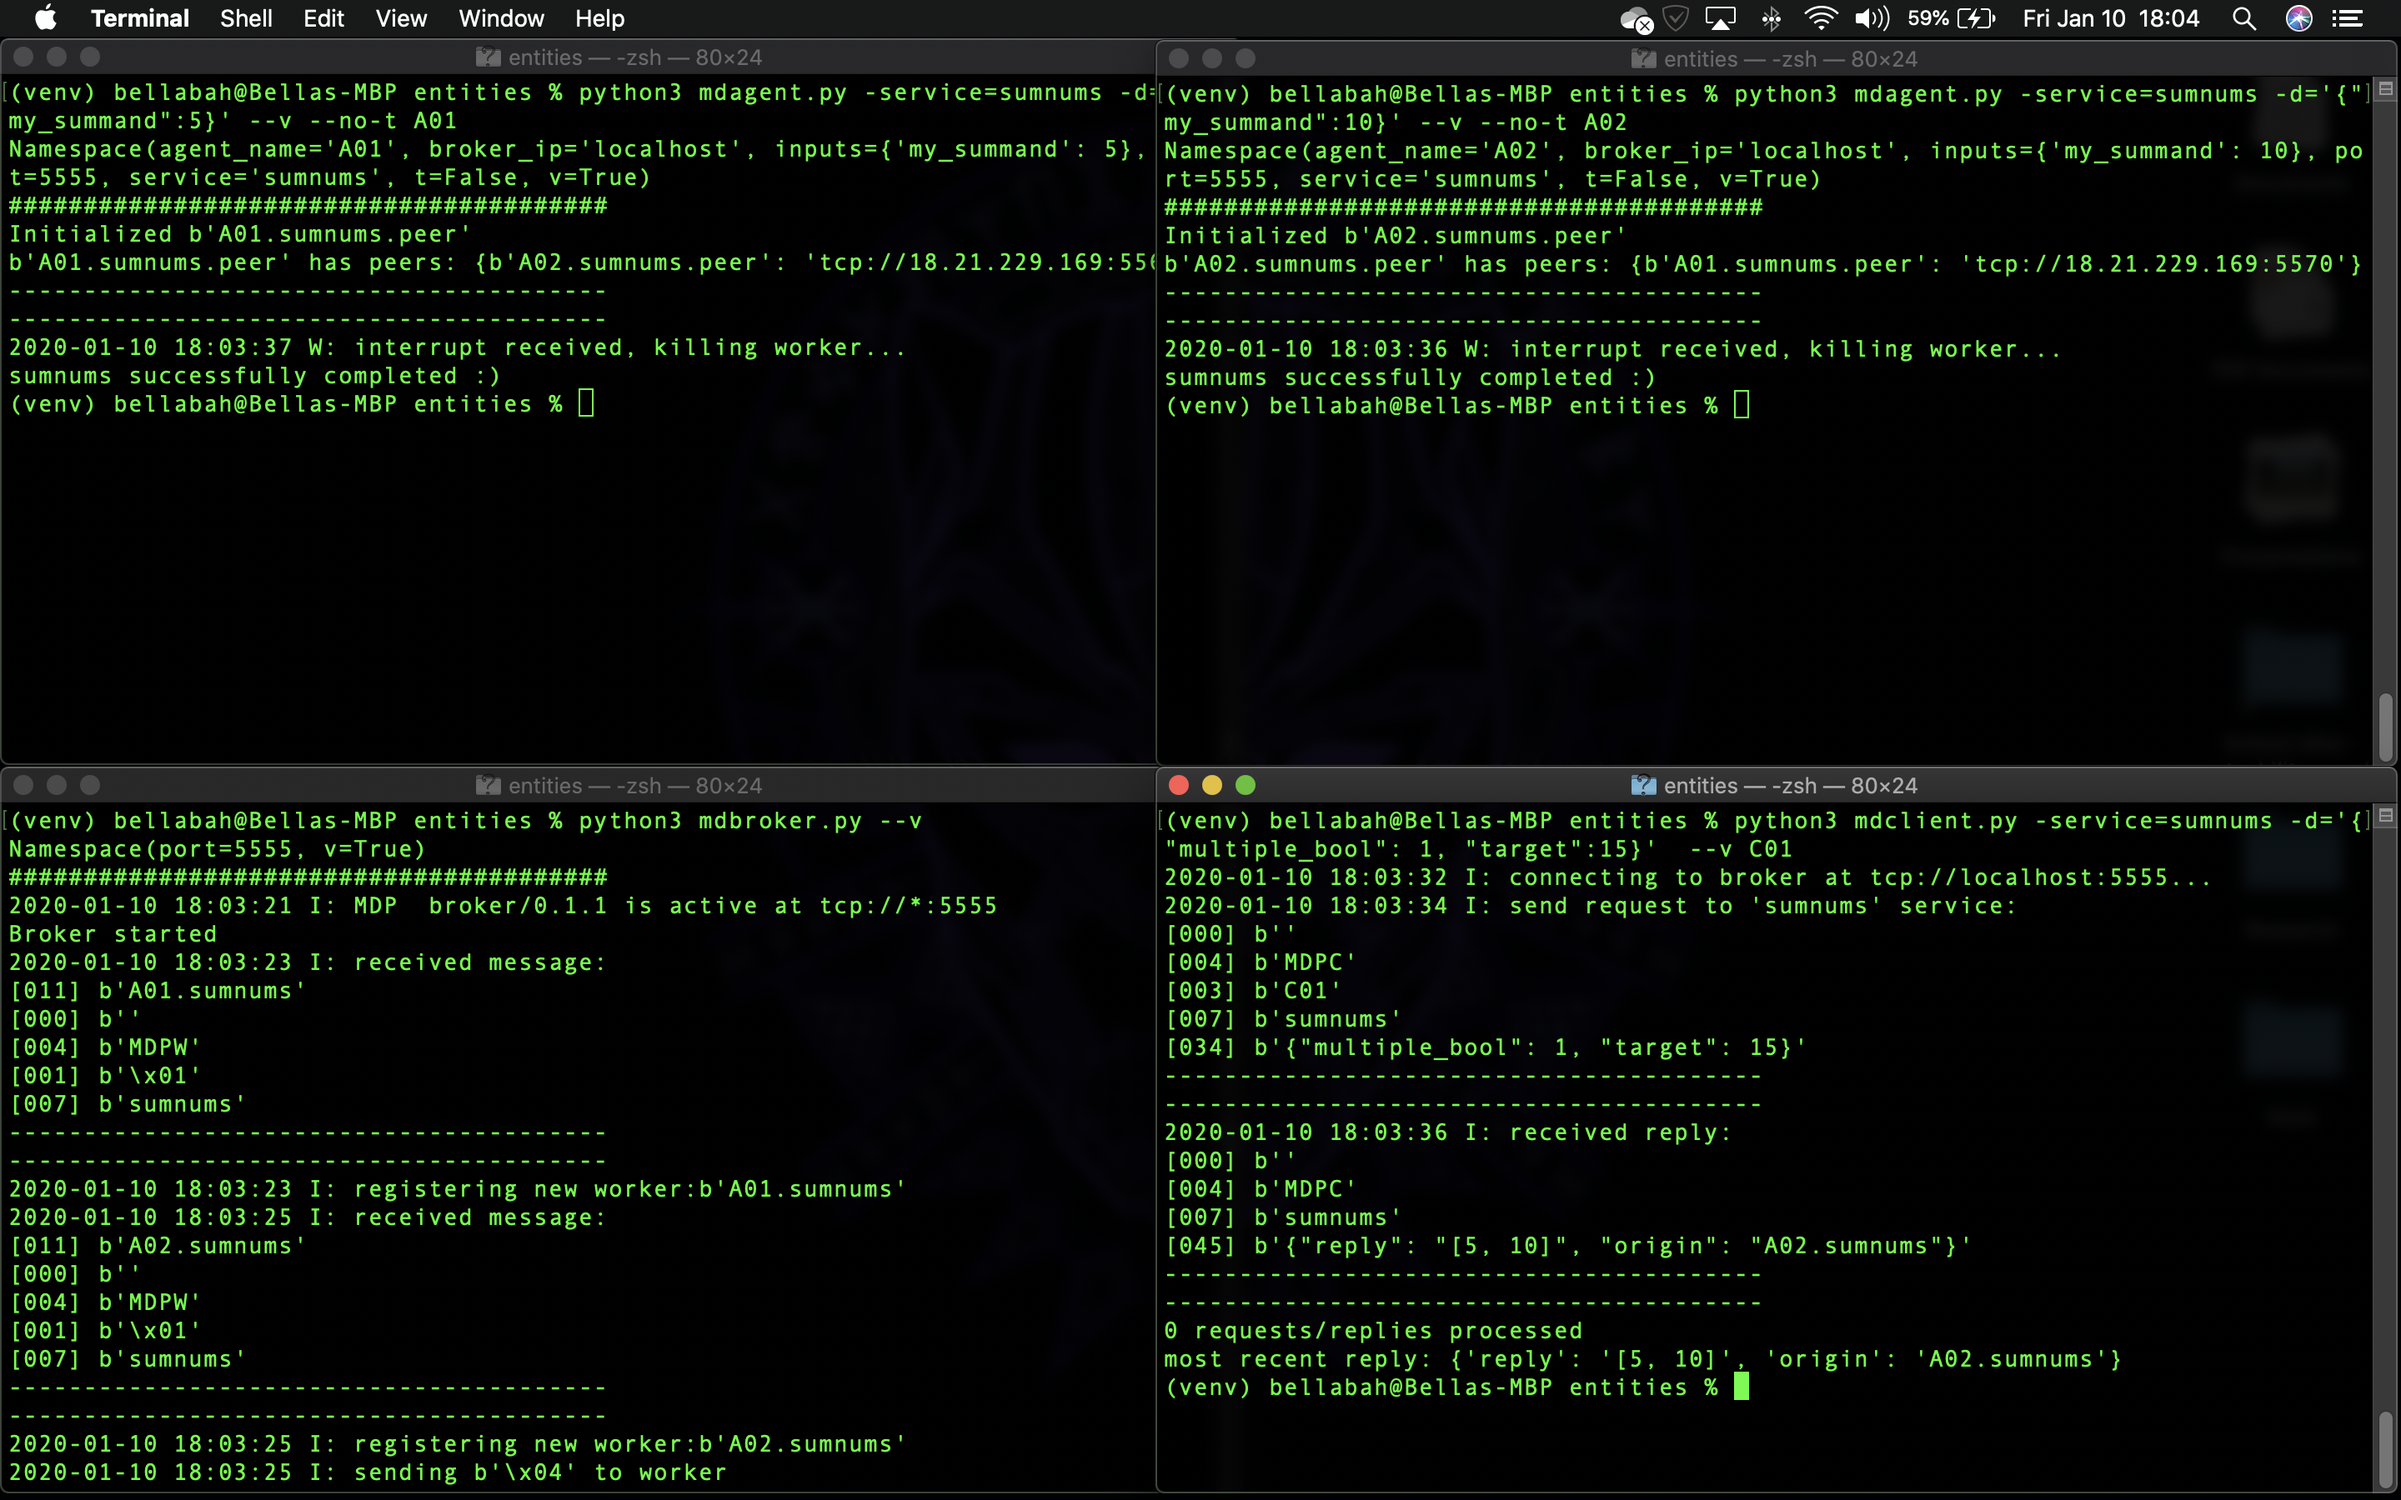
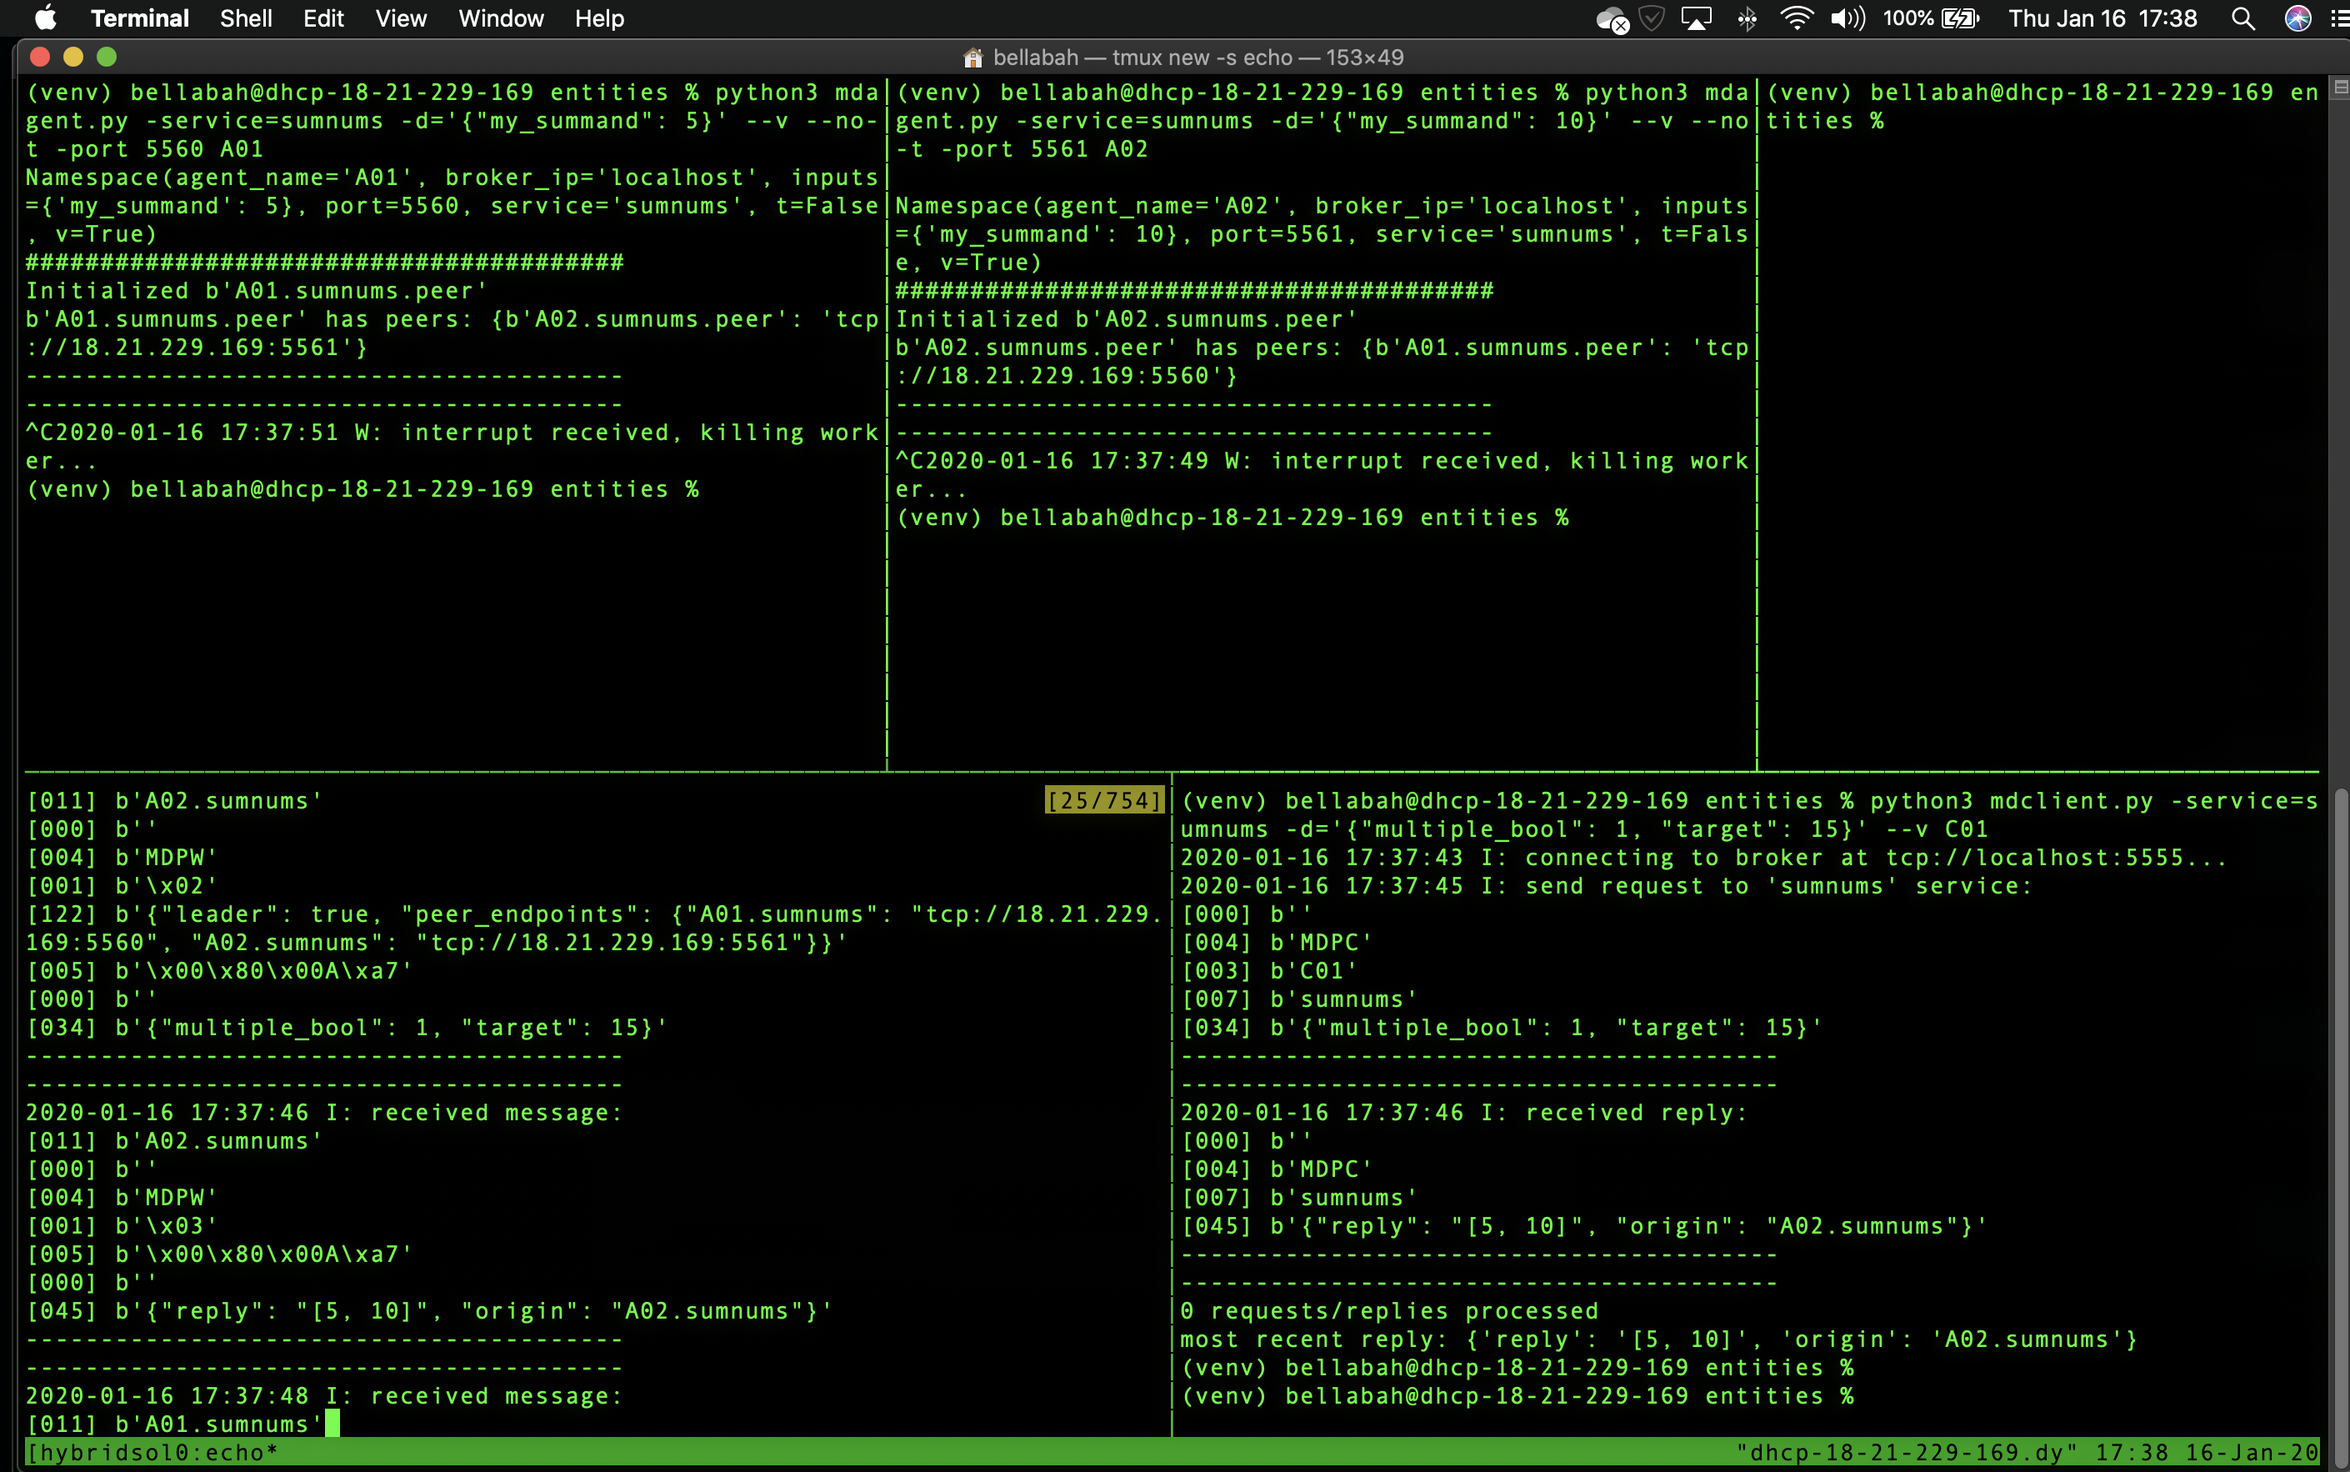
modified sumnums to work with current release

diff --git a/auxo_olympus/lib/services/serviceExeSumNums/serviceExeSumNums.py b/auxo_olympus/lib/services/serviceExeSumNums/serviceExeSumNums.py
@@ -13,6 +13,8 @@ input: {
 }
 
 state_space {'other_peer_data': {'A02.sumnums.peer': {'my_summand': 8}}, 'my_summand': 2, 'target_number': 10}
+
+Leader based structure 
 """
 
 import time
@@ -59,7 +61,7 @@ class ServiceExeSumNums(ServiceExeBase):
         time.sleep(self.BIND_WAIT)
 
         if self.leader_bool:
-            send_to: List[bytes] or Dict[bytes, str] = self.peer_port.peers
+            send_to: Dict[bytes, str] = self.peer_port.peers
 
             self.request_from_peers(state='my_summand', send_to=send_to)
 
@@ -70,9 +72,6 @@ class ServiceExeSumNums(ServiceExeBase):
             payload = self.work(all_nums=all_summands, target=target_number)
             reply = {'reply': payload, 'origin': self.worker_name}
 
-            # inform peers that leader is done and so they can die
-            self.inform_peers(send_to=send_to)     # Peers that are not leaders will shutdown themselves
-            self.peer_port.stop()
         else:
             reply = None
 
